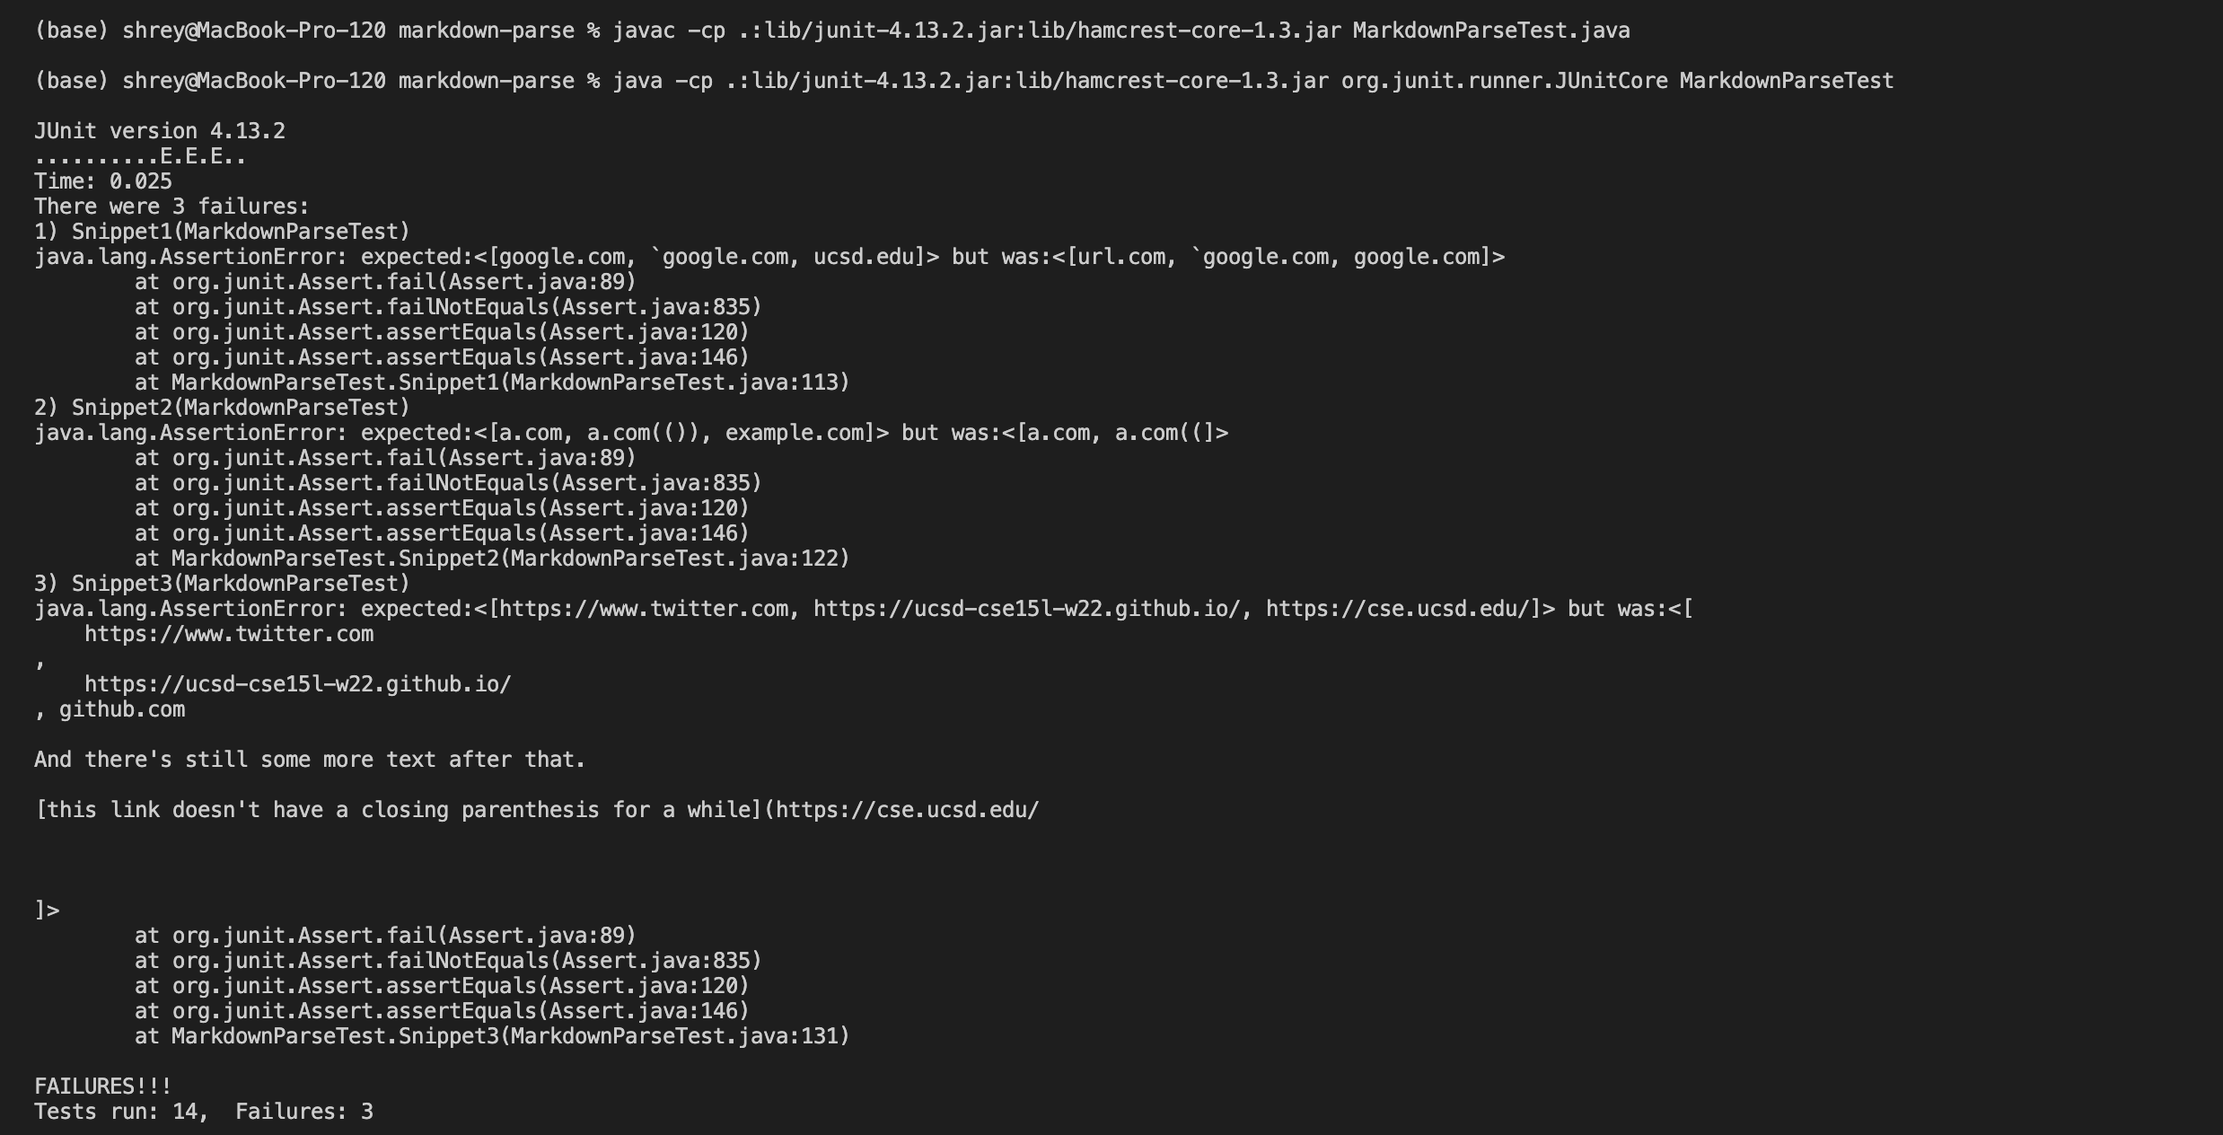
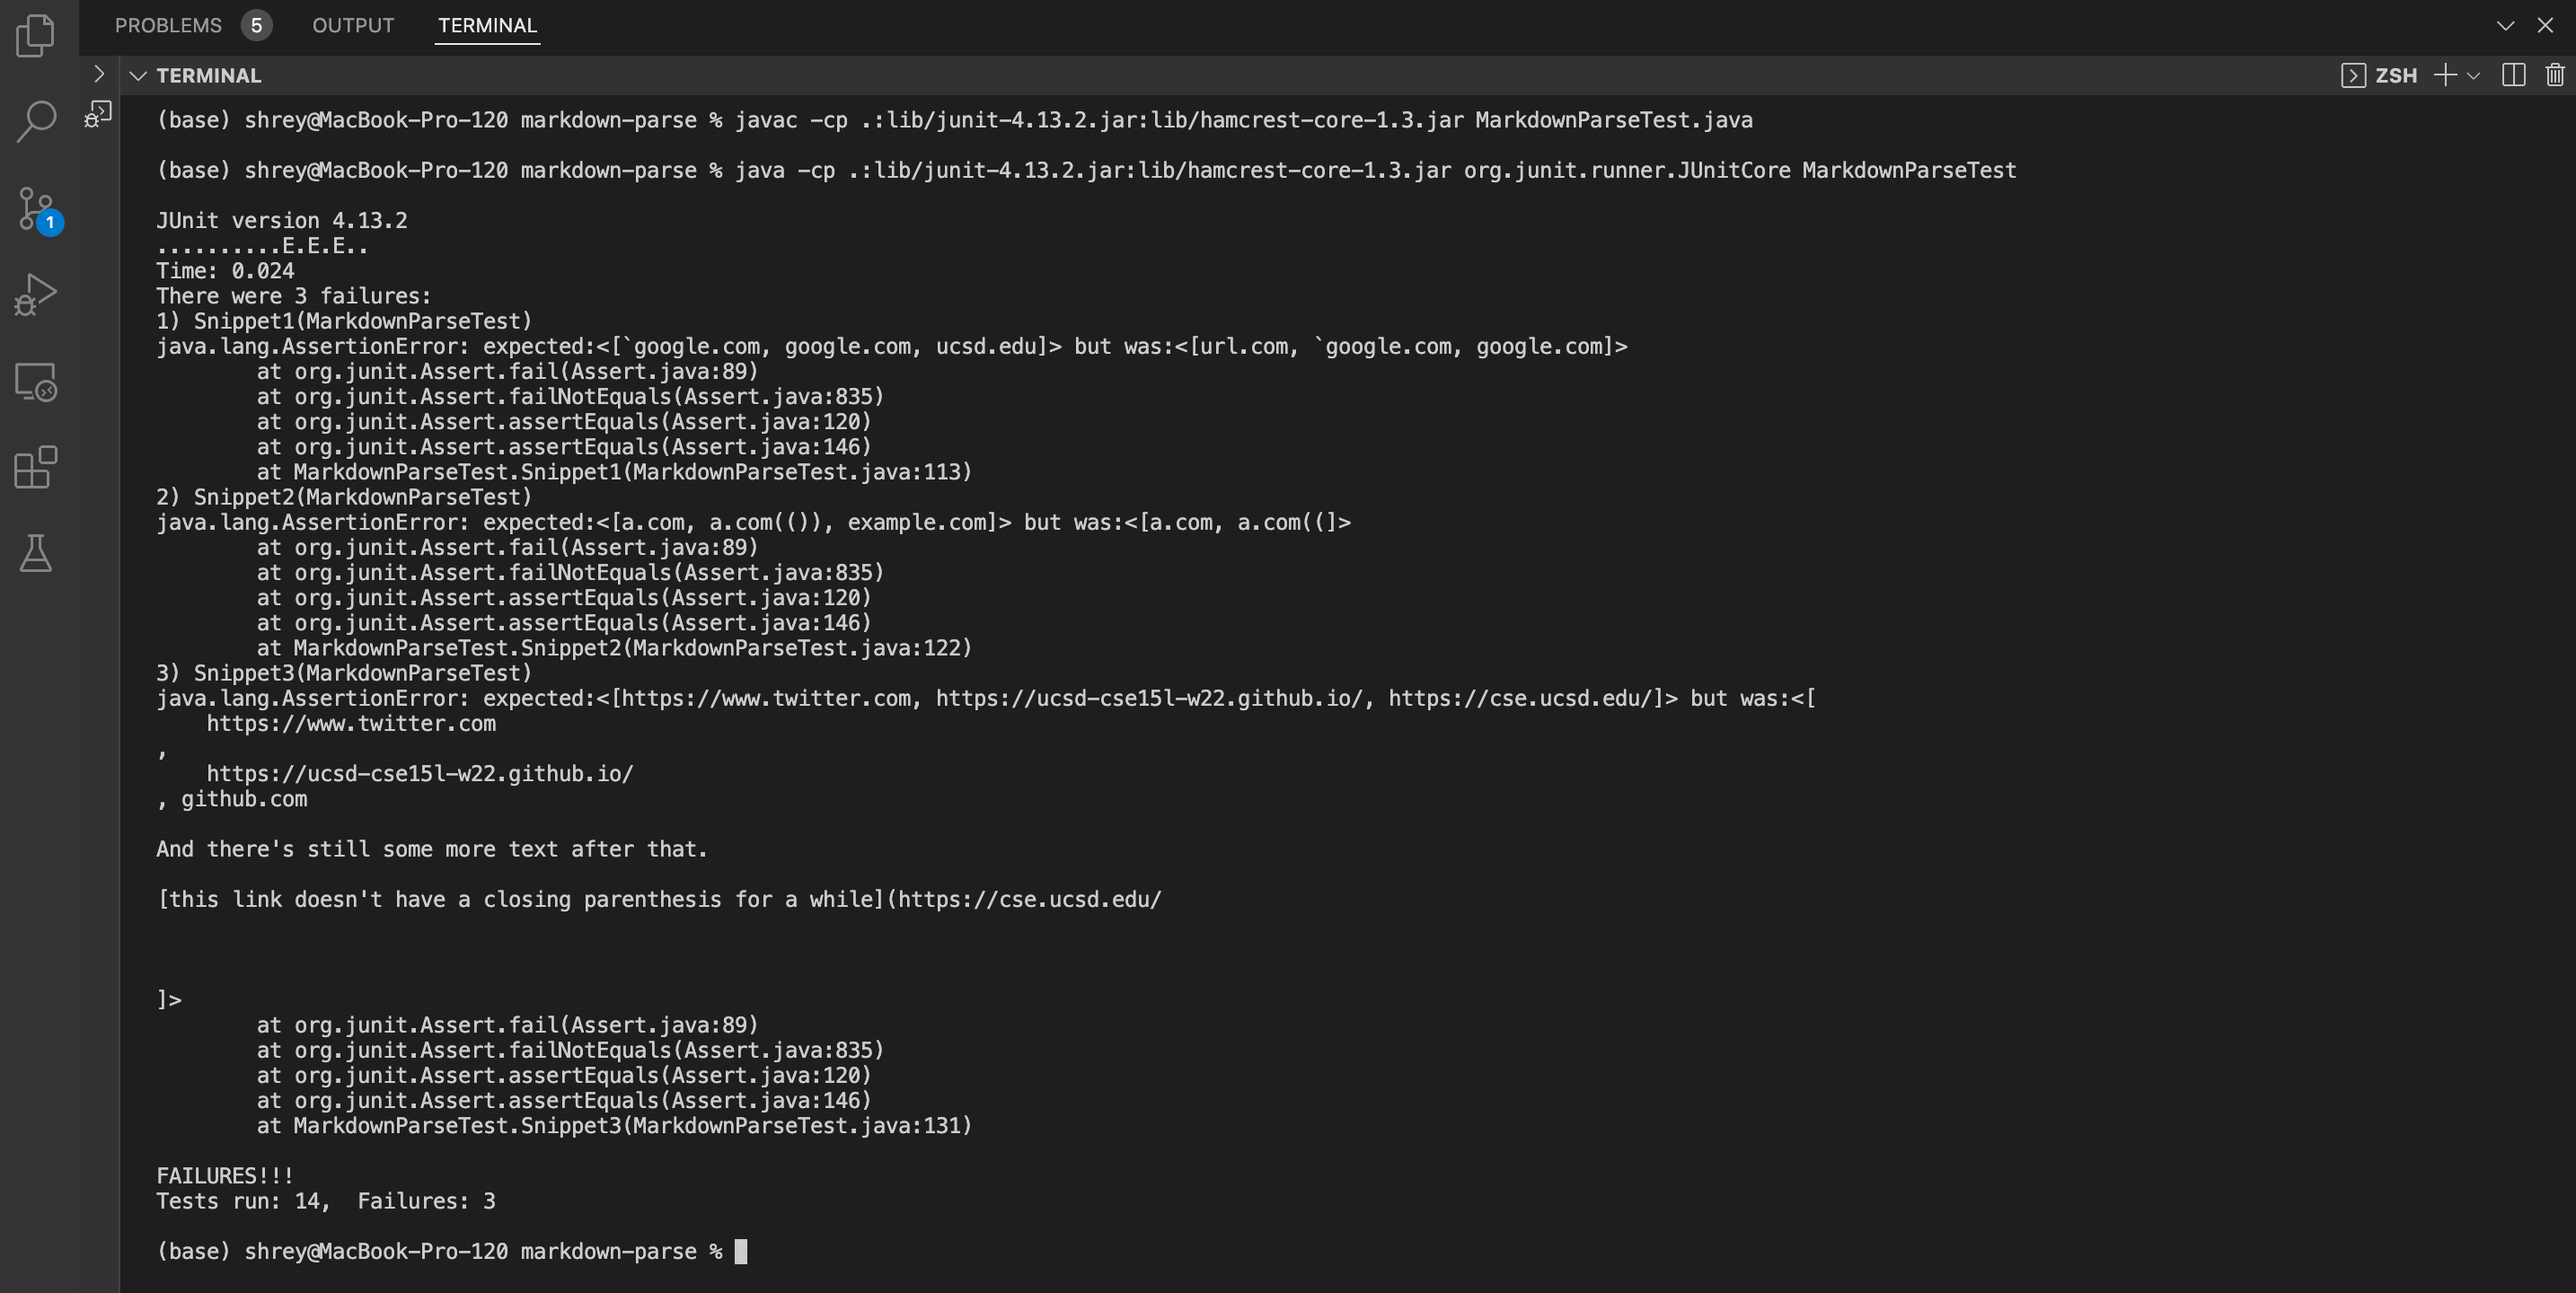
edits

diff --git a/lab-report-4-week-8.md b/lab-report-4-week-8.md
@@ -11,7 +11,7 @@
 ---
 ### Expected Code Output to be Produced by Each Snippet
 #### 1. Snippet 1
-##### ```[google.com, `google.com, ucsd.edu]```
+##### ```[`google.com, google.com, ucsd.edu]```
 #### 2. Snippet 2
 ##### ```[a.com, a.com(()), example.com]```
 #### 2. Snippet 3
@@ -25,7 +25,7 @@
 ---
 ### Output When Running Tests for My Implementation 
 
-![Image](MyGroupReview.png)
+![Image](MyGroup.png)
 
 The tests for Snippet1, Snippet 2, and Snippet 3 fail as shown by the text ```There were 3 failures:```, ```1) Snippet1(MarkdownParseTest)```, ```2) Snippet2(MarkdownParseTest)```, and ```3) Snippet3(MarkdownParseTest)``` in the terminal.  
 
@@ -50,12 +50,12 @@ However, Snippet3 passes because it is not mentioned as a test case failure in t
 
 #### Answering Questions:
 #### 1. Snippet 1
-For snippet 1, I think that there could be a code change less 10 lines to get the expected output for just the first line of snippet 1 (````[a link`](url.com)```). For instance, a check for a backtick before the opening bracket could be implemented in the same if condition where we wrote a check for ```!```. However, in order to not recognize ```[`code]`](ucsd.edu)``` as a link, it may be more complicted than 10 lines because we have to implement code that recognizes which closing bracket to use when there are more than one closing brackets. In our code, we have a check to see if there is anything between the closing bracket and the first character after the opening paranthesis, in which case the line should not be considered a link. If we remove this statement, there would be an infinte loop but keeping the statment doesn't account for cases with multiple closing brackets, so finding a fix for this may be more than changing a few lines.
+For snippet 1, I think that there could be a code change less 10 lines to get the expected output for just the first line of snippet 1 (````[a link`](url.com)```). For instance, a check for a backtick before the opening bracket could be implemented in the same if condition where we wrote a check for ```!```. This would also mean accounting for backticks outside the closing bracket and before the opening parantheses using conditional statments which can be done within 10 lines. However, in order to not recognize ```[`code]`](ucsd.edu)``` as a link, it may be more complicted than 10 lines because we have to implement code that recognizes opening and closing backticks. In our code, we have a check to see if there is anything between the closing bracket and the first character after the opening paranthesis, in which case the line should not be considered a link to catch instances where this is needed. In the case of snippet 1, this check for characters between the first closing bracket and opening parenthases causes the last link to be excluded. If we remove this statement, there would be an infinte loop but keeping the statment doesn't account for cases with backticks, so finding a fix for this may be more than changing a few lines. Additionally, finding a fix for backticks would mean using a stack to push whenever an opening backtick is present and pop when a closing backtick is present to identify pairs of backticks, so this would require more than 10 lines of code. 
 #### Relevant Code: 
 ![Image](RelevantCode1.png)
 
 #### 2. Snippet 2
-For snippet 2, I do not think there is a simple code fix that could work for nested parantheses because our code just checks for the first occurance of an open parantheses and the following occurance of an open parantheses, but it doesn't account for when there are parentheses between the opening and closing brackets. Accounting for this would mean recognizing the number of open parantheses and closing paranthesis and possibly using a stack to push in a open parantheses whenever one is found and pop that parantheses when a closing parentheses is found to identify the first and last paranthesis. This stack implementation would take more than 10 lines. The case with ```[some escaped \[ brackets \]](example.com)``` in code snippet 2 would not involve parantheses but would have a similar situation to snippet 1 with multiple closed brakcets, characters between the closing bracket and open paranthesis, and recognizing escaped brackets, which would also take many lines of code with the same reasoning as snippet 1 and possibly also using a stack in the same way as with parentheses but for brackets. This may also involve several conditional statments to account for instances of escaped brackets. 
+For snippet 2, I do not think there is a simple code fix that could work for nested parantheses and brackets because our code just checks for the first occurance of an open parantheses and the following occurance of a closed parantheses, but it doesn't account for multiple paranthases or brackets. Accounting for this would mean recognizing the number of open parantheses/brackets and closing paranthesis/brackets and possibly using a stack to push in a open parantheses/bracket whenever one is found and pop that parantheses/bracket when a closing parentheses is found to identify the first and last paranthesis/bracket. This stack implementation would take more than 10 lines. The case with escaped brackets```[some escaped \[ brackets \]](example.com)```in code snippet 2 would have a similar situation to snippet 1 with backticks, characters between the closing bracket and open paranthesis, and recognizing pairs escaped brackets, which would also use a stack like the stack implementation with backticks and take many lines of code.
 
 #### 3. Snippet 3
-For snippet 3, accounting for newlines in brackets and parantheses might take less than 10 lines for the first two links with ```https://www.twitter.com``` and ```https://ucsd-cse15l-w22.github.io/``` because ```.trim()``` could be used to remove any spaces before and after the links. However, for the last link ```https://cse.ucsd.edu/```, the text between the closing bracket and the actual opening parantheses that needs to be considered has a parantheses in it, so accounting for additional parantheses between the necessary open and closing brackets and open and closing parantheses may be more in depth and take more lines of code because the parantheses that actually encapsualte the link need to be recognized and the location of the actual link with ```https:``` would need to be recognized, but here could be many variations in hwow a link begins to recognize if it's actually a link. 
+For snippet 3, accounting for newlines in brackets and parantheses might take less than 10 lines for the first two links with ```https://www.twitter.com``` and ```https://ucsd-cse15l-w22.github.io/``` because ```.trim()``` could be used on ```toReturn``` to remove any spaces before and after the links. However, for the last link ```https://cse.ucsd.edu/```, the text between the closing bracket and the actual opening parantheses that needs to be considered has a parantheses in it, so accounting for additional parantheses between the necessary open and closing brackets and open and closing parantheses may be more in depth and take more lines of code because the parantheses that actually encapsualte the link need to be recognized and the location of the actual link with ```https:``` would need to be recognized, but there could be many variations in how a link begins whether with ```https:``` or something else to recognize if it's actually a link. 
